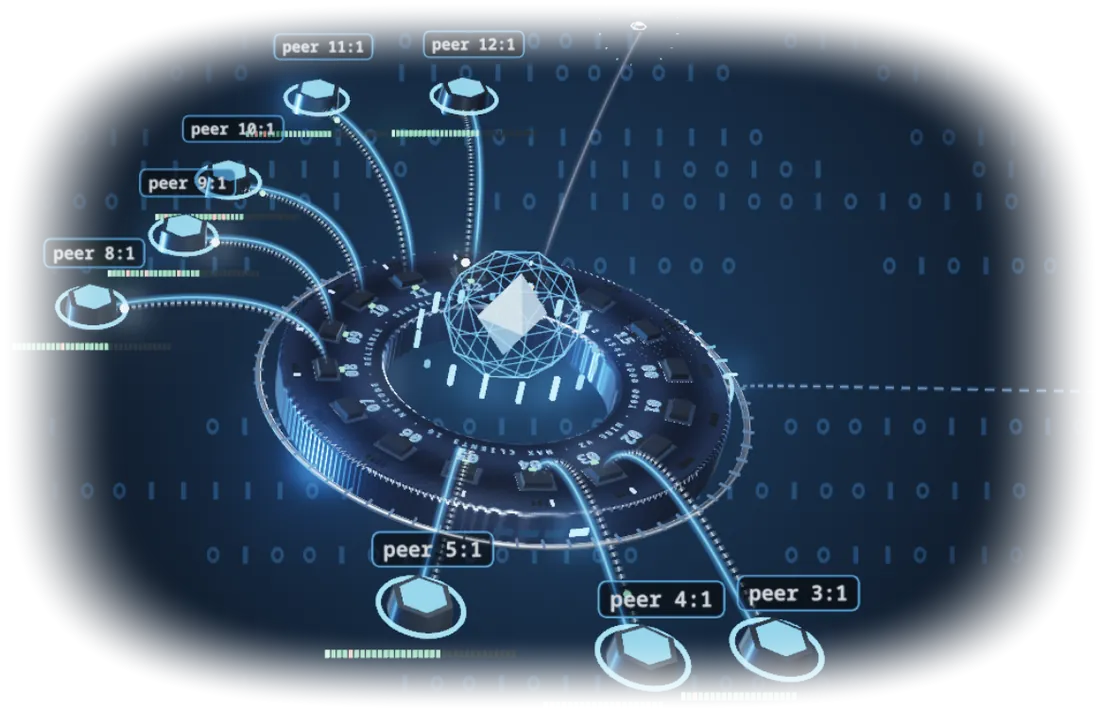
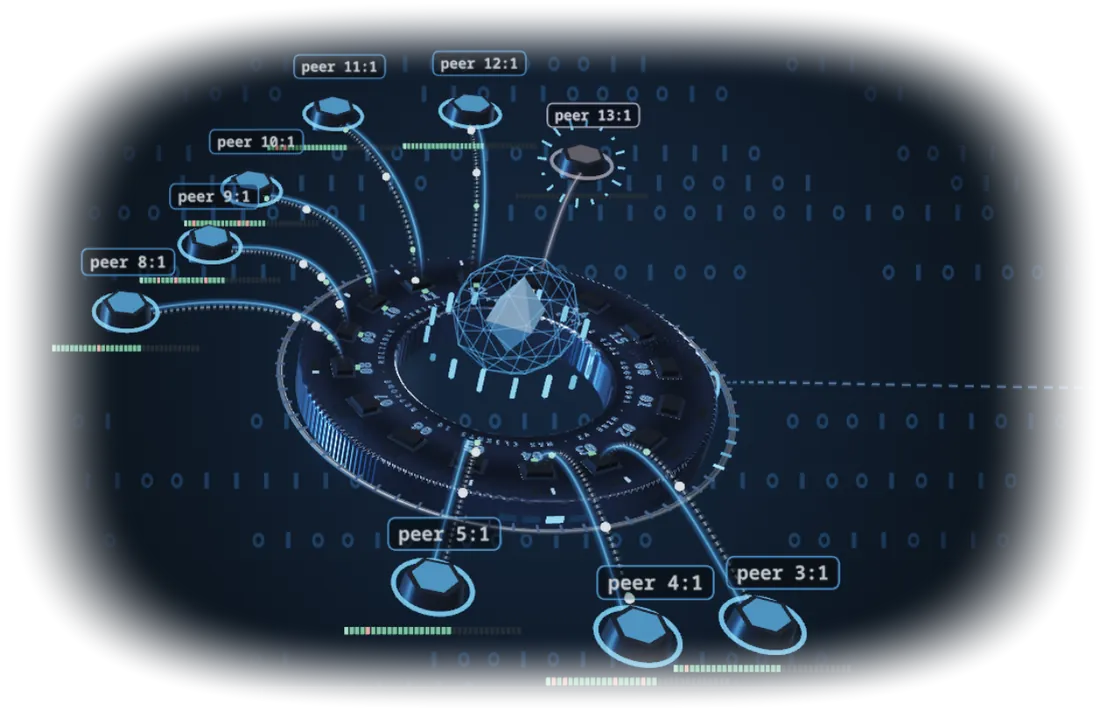
UPDATE: Take the pointer's light out of the hero, and calm its glare
The pointer lit the peers and the drum as it moved, which made hot white highlights. It now carries
only the simulator's ring. Emission, clearcoat, reflections and bloom are all turned down, so the
drum reads as brushed metal and the packets glow without flaring; the still is recaptured to
match.

diff --git a/static/js/dream-net-hero.js b/static/js/dream-net-hero.js
@@ -322,11 +322,11 @@ function environment(renderer, accent) {
   const room = new THREE.Mesh(new THREE.BoxGeometry(26, 16, 26), new THREE.MeshBasicMaterial({ color: new THREE.Color(0.025, 0.035, 0.05), side: THREE.BackSide }));
   scene.add(room);
   disposables.push(room.geometry, room.material);
-  add(new THREE.PlaneGeometry(14, 6), new THREE.Color(0.85, 0.92, 1.0).multiplyScalar(3.2), [-6, 7, 6]);
-  add(new THREE.PlaneGeometry(9, 5), new THREE.Color(0.9, 0.95, 1.0).multiplyScalar(1.6), [8, 4, 7]);
-  add(new THREE.PlaneGeometry(14, 0.5), accent.clone().multiplyScalar(6), [7, 2.2, -8]);
-  add(new THREE.PlaneGeometry(14, 0.4), accent.clone().multiplyScalar(4), [-8, 0.5, -7]);
-  add(new THREE.PlaneGeometry(20, 0.3), new THREE.Color(0.55, 0.8, 1.0).multiplyScalar(3), [0, -0.8, -12]);
+  add(new THREE.PlaneGeometry(14, 6), new THREE.Color(0.85, 0.92, 1.0).multiplyScalar(1.8), [-6, 7, 6]);
+  add(new THREE.PlaneGeometry(9, 5), new THREE.Color(0.9, 0.95, 1.0).multiplyScalar(0.9), [8, 4, 7]);
+  add(new THREE.PlaneGeometry(14, 0.5), accent.clone().multiplyScalar(3), [7, 2.2, -8]);
+  add(new THREE.PlaneGeometry(14, 0.4), accent.clone().multiplyScalar(2), [-8, 0.5, -7]);
+  add(new THREE.PlaneGeometry(20, 0.3), new THREE.Color(0.55, 0.8, 1.0).multiplyScalar(1.5), [0, -0.8, -12]);
   add(new THREE.PlaneGeometry(24, 24), new THREE.Color(0.08, 0.12, 0.18).multiplyScalar(0.6), [0, -7.5, 0]);
   const generator = new THREE.PMREMGenerator(renderer);
   const target = generator.fromScene(scene, 0.03);
@@ -366,7 +366,7 @@ const SKY_FRAGMENT = /* glsl */ `
     vec2 d = (vUv - uCenter) * vec2(aspect, 1.0);
     float r = length(d);
     float radius = max(uRadius, 1e-3);
-    color += uAccent * exp(-r * r / (radius * radius)) * 0.075;
+    color += uAccent * exp(-r * r / (radius * radius)) * 0.05;
 
     // Cells of 17 CSS pixels, whatever the hero's size.
     vec2 p = vUv * uResolution / 17.0;
@@ -491,7 +491,7 @@ const BRIGHT_FRAGMENT = /* glsl */ `
   void main() {
     vec3 c = scrub(texture2D(tInput, vUv).rgb);
     float luma = dot(c, vec3(0.2126, 0.7152, 0.0722));
-    gl_FragColor = vec4(c * smoothstep(uThreshold, uThreshold + 0.8, luma), 1.0);
+    gl_FragColor = vec4(c * smoothstep(uThreshold, uThreshold + 1.2, luma), 1.0);
   }
 `;
 
@@ -524,8 +524,8 @@ const COMPOSITE_FRAGMENT = /* glsl */ `
   ${SCRUB}
   void main() {
     vec3 color = scrub(texture2D(tScene, vUv).rgb);
-    color += scrub(texture2D(tBloomNear, vUv).rgb) * 0.75 + scrub(texture2D(tBloomFar, vUv).rgb) * 0.6;
-    color = aces(color * 0.95);
+    color += scrub(texture2D(tBloomNear, vUv).rgb) * 0.4 + scrub(texture2D(tBloomFar, vUv).rgb) * 0.3;
+    color = aces(color * 0.8);
     color = pow(color, vec3(1.0 / 2.2));
     color += dither(gl_FragCoord.xy) / 255.0;
     gl_FragColor = vec4(color, 1.0);
@@ -710,16 +710,16 @@ function mount(root) {
     metalness: 1,
     color: new THREE.Color(0.62, 0.68, 0.78),
     emissiveMap: maps.glow,
-    emissive: accent.clone().multiplyScalar(0.55),
+    emissive: accent.clone().multiplyScalar(0.3),
     emissiveIntensity: 1,
-    clearcoat: 0.35,
-    clearcoatRoughness: 0.25,
-    envMapIntensity: 1.15,
+    clearcoat: 0.12,
+    clearcoatRoughness: 0.4,
+    envMapIntensity: 0.75,
   }));
   rig.add(drum);
 
   // The bezel: Seq16's dial, 64 ticks, one lit for the current sequence number.
-  const bezelMaterial = new THREE.MeshPhysicalMaterial({ color: new THREE.Color(0.55, 0.6, 0.68), metalness: 1, roughness: 0.22, clearcoat: 0.6, envMapIntensity: 1.3, emissive: accent.clone(), emissiveIntensity: 0 });
+  const bezelMaterial = new THREE.MeshPhysicalMaterial({ color: new THREE.Color(0.5, 0.55, 0.62), metalness: 1, roughness: 0.34, clearcoat: 0.15, envMapIntensity: 0.75, emissive: accent.clone(), emissiveIntensity: 0 });
   const bezel = new THREE.Mesh(new THREE.TorusGeometry(DRUM.outer + 0.07, 0.009, 10, small ? 128 : 220), bezelMaterial);
   bezel.rotation.x = Math.PI / 2;
   rig.add(bezel);
@@ -740,11 +740,11 @@ function mount(root) {
     vector.set(Math.cos(angle) * (DRUM.outer + 0.07), 0.012, Math.sin(angle) * (DRUM.outer + 0.07));
     matrix.compose(vector, quaternion, unit);
     ticks.setMatrixAt(i, matrix);
-    ticks.setColorAt(i, hot(infoColor, 0.35));
+    ticks.setColorAt(i, hot(infoColor, 0.25));
   }
 
   // Sockets, their lamps and their generation notches.
-  const socketMesh = new THREE.InstancedMesh(new THREE.BoxGeometry(0.075, 0.03, 0.05), new THREE.MeshPhysicalMaterial({ color: new THREE.Color(0.04, 0.05, 0.07), metalness: 0.4, roughness: 0.45, clearcoat: 0.8, clearcoatRoughness: 0.15 }), SLOTS);
+  const socketMesh = new THREE.InstancedMesh(new THREE.BoxGeometry(0.075, 0.03, 0.05), new THREE.MeshPhysicalMaterial({ color: new THREE.Color(0.04, 0.05, 0.07), metalness: 0.4, roughness: 0.55, clearcoat: 0.2, clearcoatRoughness: 0.35 }), SLOTS);
   const lampMesh = new THREE.InstancedMesh(new THREE.BoxGeometry(0.018, 0.008, 0.014), new THREE.MeshBasicMaterial({ color: 0xffffff }), SLOTS);
   const notchMesh = new THREE.InstancedMesh(new THREE.BoxGeometry(0.008, 0.006, 0.02), new THREE.MeshBasicMaterial({ color: 0xffffff }), SLOTS * 4);
   for (let slot = 0; slot < SLOTS; slot++) {
@@ -782,12 +782,12 @@ function mount(root) {
 
   // The listening socket, on the rim, facing the edge of the page.
   const port = new THREE.Group();
-  const portBody = new THREE.Mesh(new THREE.CylinderGeometry(0.036, 0.04, 0.05, 32, 1, true), new THREE.MeshPhysicalMaterial({ color: new THREE.Color(0.5, 0.56, 0.64), metalness: 1, roughness: 0.25, side: THREE.DoubleSide, envMapIntensity: 1.2 }));
+  const portBody = new THREE.Mesh(new THREE.CylinderGeometry(0.036, 0.04, 0.05, 32, 1, true), new THREE.MeshPhysicalMaterial({ color: new THREE.Color(0.5, 0.56, 0.64), metalness: 1, roughness: 0.35, side: THREE.DoubleSide, envMapIntensity: 0.75 }));
   portBody.rotation.z = -Math.PI / 2;
   const portMouth = new THREE.Mesh(new THREE.CircleGeometry(0.03, 32), new THREE.MeshBasicMaterial({ color: new THREE.Color(0.01, 0.015, 0.02) }));
   portMouth.rotation.y = Math.PI / 2;
   portMouth.position.x = 0.012;
-  const portRingMaterial = new THREE.MeshBasicMaterial({ color: hot(accent, 1) });
+  const portRingMaterial = new THREE.MeshBasicMaterial({ color: hot(accent, 0.6) });
   const portRing = new THREE.Mesh(new THREE.TorusGeometry(0.043, 0.005, 8, 48), portRingMaterial);
   portRing.rotation.y = Math.PI / 2;
   portRing.position.x = 0.026;
@@ -797,12 +797,12 @@ function mount(root) {
 
   // The key, caged, and the schema's fingerprint around it.
   const coreMaterial = new THREE.MeshPhysicalMaterial({
-    color: new THREE.Color(0.75, 0.88, 1.0), metalness: 0.15, roughness: 0.06, clearcoat: 1, clearcoatRoughness: 0.04,
-    iridescence: 1, iridescenceIOR: 1.7, iridescenceThicknessRange: [180, 620], emissive: accent.clone(), emissiveIntensity: 0.35, envMapIntensity: 1.7,
+    color: new THREE.Color(0.62, 0.74, 0.88), metalness: 0.15, roughness: 0.18, clearcoat: 0.4, clearcoatRoughness: 0.2,
+    iridescence: 0.5, iridescenceIOR: 1.5, iridescenceThicknessRange: [180, 620], emissive: accent.clone(), emissiveIntensity: 0.16, envMapIntensity: 0.9,
   });
   const core = new THREE.Mesh(new THREE.OctahedronGeometry(0.1, 0), coreMaterial);
   core.scale.set(1, 1.45, 1);
-  const cageMaterial = new THREE.LineBasicMaterial({ color: hot(accent, 1.4), transparent: true, opacity: 0.55, blending: THREE.AdditiveBlending, depthWrite: false });
+  const cageMaterial = new THREE.LineBasicMaterial({ color: hot(accent, 0.8), transparent: true, opacity: 0.4, blending: THREE.AdditiveBlending, depthWrite: false });
   const cage = new THREE.LineSegments(new THREE.EdgesGeometry(new THREE.IcosahedronGeometry(0.19, 1)), cageMaterial);
   const coreGroup = new THREE.Group();
   coreGroup.add(core, cage);
@@ -822,7 +822,7 @@ function mount(root) {
       vector.set(Math.cos(angle) * 0.25, 0.025 * height, Math.sin(angle) * 0.25);
       matrix.compose(vector, quaternion, new THREE.Vector3(1, height, 1));
       fingerprintMesh.setMatrixAt(i, matrix);
-      fingerprintMesh.setColorAt(i, hot(accent, 0.8 + serverPrint[i] / 255 * 2.4));
+      fingerprintMesh.setColorAt(i, hot(accent, 0.45 + serverPrint[i] / 255 * 1.15));
     }
     fingerprintMesh.instanceMatrix.needsUpdate = true;
     if (fingerprintMesh.instanceColor) fingerprintMesh.instanceColor.needsUpdate = true;
@@ -848,13 +848,13 @@ function mount(root) {
     rig.add(mesh);
     return mesh;
   };
-  const lens = makeLens(hot(warnColor, 1.1));
+  const lens = makeLens(hot(warnColor, 0.85));
 
   // Peers: a hexagonal node with a state ring, its name plate, and its links.
   const nodeGeometry = new THREE.CylinderGeometry(0.075, 0.082, 0.07, 6, 1);
   const nodeTopGeometry = new THREE.CylinderGeometry(0.058, 0.058, 0.006, 6, 1);
   const nodeRingGeometry = new THREE.TorusGeometry(0.1, 0.006, 8, 48);
-  const bodyMaterial = new THREE.MeshPhysicalMaterial({ color: new THREE.Color(0.2, 0.24, 0.3), metalness: 0.9, roughness: 0.3, clearcoat: 0.7, clearcoatRoughness: 0.12, envMapIntensity: 1.2 });
+  const bodyMaterial = new THREE.MeshPhysicalMaterial({ color: new THREE.Color(0.18, 0.21, 0.26), metalness: 0.85, roughness: 0.42, clearcoat: 0.15, clearcoatRoughness: 0.4, envMapIntensity: 0.7 });
   function makeNode() {
     const group = new THREE.Group();
     const body = new THREE.Mesh(nodeGeometry, bodyMaterial);
@@ -991,15 +991,15 @@ function mount(root) {
     }
   }
 
-  // Lights: a cool key, a rim, the accent from behind, and the pointer's lamp.
-  const key = new THREE.DirectionalLight(new THREE.Color(0.86, 0.92, 1.0), 1.5);
+  // Lights: a cool key, a rim and the accent from behind. The pointer carries no light: it is the
+  // simulator's ring, nothing more.
+  const key = new THREE.DirectionalLight(new THREE.Color(0.86, 0.92, 1.0), 1.05);
   key.position.set(-4, 6, 6);
-  const rim = new THREE.DirectionalLight(new THREE.Color(0.7, 0.85, 1.0), 2.2);
+  const rim = new THREE.DirectionalLight(new THREE.Color(0.7, 0.85, 1.0), 1.4);
   rim.position.set(5, 3, -6);
-  const back = new THREE.DirectionalLight(accent, 1.6);
+  const back = new THREE.DirectionalLight(accent, 1.1);
   back.position.set(-6, -1, -4);
-  const lamp = new THREE.PointLight(new THREE.Color(1.0, 0.95, 0.85), 0, 0, 2);
-  scene.add(key, rim, back, lamp);
+  scene.add(key, rim, back);
 
   // Post-processing.
   const postScene = new THREE.Scene();
@@ -1007,7 +1007,7 @@ function mount(root) {
   const postQuad = new THREE.Mesh(quad);
   postQuad.frustumCulled = false;
   postScene.add(postQuad);
-  const brightMaterial = fullscreenMaterial(BRIGHT_FRAGMENT, { tInput: { value: sceneTarget.texture }, uThreshold: { value: 0.95 } });
+  const brightMaterial = fullscreenMaterial(BRIGHT_FRAGMENT, { tInput: { value: sceneTarget.texture }, uThreshold: { value: 1.3 } });
   const blurMaterial = fullscreenMaterial(BLUR_FRAGMENT, { tInput: { value: null }, uDirection: { value: new THREE.Vector2() } });
   const copyMaterial = fullscreenMaterial(/* glsl */ `
     uniform sampler2D tInput;
@@ -1207,13 +1207,13 @@ function mount(root) {
 
   function packetColor(packet, target) {
     switch (packet.kind) {
-      case 'event': return target.copy(accent).multiplyScalar(3.4);
-      case 'resend': return target.copy(warnColor).multiplyScalar(3.2);
-      case 'hello': return target.setRGB(0.92, 0.88, 1.0).multiplyScalar(3.0);
-      case 'ack': return target.copy(okColor).multiplyScalar(2.2);
-      case 'chat': return target.copy(packet.owner.color || accent).multiplyScalar(3.8);
-      case 'idle': return target.copy(infoColor).multiplyScalar(1.5);
-      default: return target.setRGB(0.8, 0.92, 1.0).multiplyScalar(2.0);
+      case 'event': return target.copy(accent).multiplyScalar(1.7);
+      case 'resend': return target.copy(warnColor).multiplyScalar(1.6);
+      case 'hello': return target.setRGB(0.92, 0.88, 1.0).multiplyScalar(1.4);
+      case 'ack': return target.copy(okColor).multiplyScalar(1.2);
+      case 'chat': return target.copy(packet.owner.color || accent).multiplyScalar(2.0);
+      case 'idle': return target.copy(infoColor).multiplyScalar(0.9);
+      default: return target.setRGB(0.8, 0.92, 1.0).multiplyScalar(1.1);
     }
   }
 
@@ -1249,7 +1249,7 @@ function mount(root) {
   }
 
   function lost(packet, position) {
-    burst(position, packet.kind === 'resend' ? hot(warnColor, 3) : hot(dangerColor, 2.4), 7, 0.25 * scale);
+    burst(position, packet.kind === 'resend' ? hot(warnColor, 1.6) : hot(dangerColor, 1.4), 7, 0.25 * scale);
     if (packet.dir > 0 && packet.owner.link !== LISTEN_LINK) acknowledge(packet.owner, false);
     // Reliable events are sent again until acknowledged; unreliable ones are gone.
     if (packet.reliable && packet.kind !== 'hello') resends.push({ owner: packet.owner, dir: packet.dir, at: time + 0.35, kind: packet.kind === 'chat' ? 'chat' : 'resend' });
@@ -1485,7 +1485,6 @@ function mount(root) {
   const pointer = new THREE.Vector2(0, 0);
   let pointerActive = false;
   let lastPointer = 0;
-  let presence = 0;
   const lensLocal = new THREE.Vector3(0, TOP + 0.05, 0);
   let lensStrength = 0;
   const lean = new THREE.Vector2();
@@ -1493,7 +1492,6 @@ function mount(root) {
   const planeNormal = new THREE.Vector3();
   const planePoint = new THREE.Vector3();
   const hit = new THREE.Vector3();
-  const lampPosition = new THREE.Vector3();
   const color = new THREE.Color();
   const scratch = new THREE.Color();
   const packetPosition = new THREE.Vector3();
@@ -1588,7 +1586,7 @@ function mount(root) {
           peer.state = peer.mismatch ? 'mismatch' : 'connected';
           peer.since = time;
           laneAt(peer.link, 0, 1, packetPosition);
-          burst(packetPosition, peer.mismatch ? hot(dangerColor, 3) : hot(accent, 3.2), 16, 0.35 * scale);
+          burst(packetPosition, peer.mismatch ? hot(dangerColor, 1.6) : hot(accent, 1.7), 16, 0.35 * scale);
           peer.nextState = time + 0.2;
         }
       } else if (peer.state === 'mismatch') {
@@ -1644,7 +1642,7 @@ function mount(root) {
           remote.state = remote.mismatch ? 'mismatch' : 'connected';
           remote.since = wall();
           laneAt(remote.link, 0, 1, packetPosition);
-          burst(packetPosition, remote.mismatch ? hot(dangerColor, 3) : hot(remote.color, 3.4), 22, 0.4 * scale);
+          burst(packetPosition, remote.mismatch ? hot(dangerColor, 1.6) : hot(remote.color, 1.9), 22, 0.4 * scale);
           coreFlare = Math.max(coreFlare, 0.7);
         }
       } else if (remote.state === 'mismatch' && age > MISMATCH_LINGER) {
@@ -1700,7 +1698,7 @@ function mount(root) {
     cameraRight.setFromMatrixColumn(camera.matrixWorld, 0);
     cameraUp.setFromMatrixColumn(camera.matrixWorld, 1);
 
-    // The pointer's lamp and the simulator's ring.
+    // The simulator's ring.
     // The ring only stands on the network: beyond the peers the pointer is just a pointer.
     const wantLens = !idle && pointerOnDrum(pointer, hit) && Math.hypot(hit.x, hit.z) < 1.75;
     if (wantLens) {
@@ -1712,25 +1710,20 @@ function mount(root) {
     lens.material.uniforms.uStrength.value = lensStrength;
     lens.material.uniforms.uTime.value = time;
     lens.visible = lensStrength > 0.01;
-    presence += ((idle ? 0.3 : 1) - presence) * (reduceMotion ? 1 : Math.min(1, dt * 3));
-    if (idle) lampPosition.set(Math.sin(time * 0.37) * 1.2, TOP + 0.9, Math.cos(time * 0.29) * 1.1 + 0.6).applyMatrix4(rig.matrixWorld);
-    else lens.getWorldPosition(lampPosition).addScaledVector(planeNormal.set(0, 1, 0).applyQuaternion(rig.quaternion), 0.7 * scale);
-    lamp.position.lerp(lampPosition, reduceMotion ? 1 : Math.min(1, dt * 6));
-    lamp.intensity = presence * 14 * scale * scale;
 
     simulate(dt);
 
     // The drum's details.
     const phase = Math.floor((time * 1.4) % 4);
-    for (let i = 0; i < 4; i++) frameMesh.setColorAt(i, i === phase ? hot(accent, 3) : hot(accent, 0.12));
+    for (let i = 0; i < 4; i++) frameMesh.setColorAt(i, i === phase ? hot(accent, 1.6) : hot(accent, 0.1));
     frameMesh.instanceColor.needsUpdate = true;
     dial.rotation.y = -time * 0.05;
     seqWrapGlow = Math.max(0, seqWrapGlow - dt * 0.8);
-    bezelMaterial.emissiveIntensity = seqWrapGlow * 1.6;
+    bezelMaterial.emissiveIntensity = seqWrapGlow * 0.9;
     const lit = seq % tickCount;
     for (let i = 0; i < tickCount; i++) {
       const distance = (lit - i + tickCount) % tickCount;
-      ticks.setColorAt(i, distance === 0 ? hot(accent, 4) : distance < 5 ? hot(accent, 1.4 - distance * 0.25) : hot(infoColor, 0.3 + seqWrapGlow * 1.5));
+      ticks.setColorAt(i, distance === 0 ? hot(accent, 2) : distance < 5 ? hot(accent, 0.9 - distance * 0.15) : hot(infoColor, 0.22 + seqWrapGlow * 0.9));
     }
     ticks.instanceColor.needsUpdate = true;
     for (const slot of slots) {
@@ -1738,13 +1731,13 @@ function mount(root) {
       slot.lamp = Math.max(0, slot.lamp - dt * 2.2);
       let base = null;
       if (peer) {
-        if (peer.state === 'connected') base = hot(okColor, 1.2 + slot.lamp * 1.2);
-        else if (peer.state === 'mismatch') base = hot(dangerColor, 1.6);
-        else if (peer.state === 'leaving') base = hot(dangerColor, 0.5 * (1 - (time - peer.since) / 1.3));
-        else base = hot(warnColor, 1.4 + slot.lamp);
+        if (peer.state === 'connected') base = hot(okColor, 0.8 + slot.lamp * 0.6);
+        else if (peer.state === 'mismatch') base = hot(dangerColor, 1.0);
+        else if (peer.state === 'leaving') base = hot(dangerColor, 0.35 * (1 - (time - peer.since) / 1.3));
+        else base = hot(warnColor, 0.9 + slot.lamp * 0.5);
       }
       lampMesh.setColorAt(slot.index, base || scratch.setRGB(0.02, 0.025, 0.03));
-      for (let j = 0; j < 4; j++) notchMesh.setColorAt(slot.index * 4 + j, j < Math.min(4, slot.gen) ? hot(infoColor, j === Math.min(4, slot.gen) - 1 && peer ? 1.8 : 0.5) : scratch.setRGB(0.015, 0.02, 0.025));
+      for (let j = 0; j < 4; j++) notchMesh.setColorAt(slot.index * 4 + j, j < Math.min(4, slot.gen) ? hot(infoColor, j === Math.min(4, slot.gen) - 1 && peer ? 1.0 : 0.35) : scratch.setRGB(0.015, 0.02, 0.025));
     }
     lampMesh.instanceColor.needsUpdate = true;
     notchMesh.instanceColor.needsUpdate = true;
@@ -1752,12 +1745,12 @@ function mount(root) {
     coreGroup.rotation.y = time * 0.35;
     coreGroup.position.y = TOP + 0.2 + Math.sin(time * 1.1) * 0.012;
     cage.rotation.set(time * 0.13, -time * 0.5, 0);
-    coreMaterial.emissiveIntensity = 0.35 + coreFlare * 2.2;
-    cageMaterial.opacity = 0.45 + coreFlare * 0.5;
+    coreMaterial.emissiveIntensity = 0.16 + coreFlare * 1.1;
+    cageMaterial.opacity = 0.35 + coreFlare * 0.4;
     fingerprintRing.rotation.y = -time * 0.18;
     const listening = remotes.some((remote) => remote.state !== 'empty');
     const breath = 0.5 + 0.5 * Math.sin(time * TAU * 0.35);
-    portRingMaterial.color.copy(listening ? okColor : accent).multiplyScalar(listening ? 2.4 : 0.6 + breath * 1.6);
+    portRingMaterial.color.copy(listening ? okColor : accent).multiplyScalar(listening ? 1.4 : 0.35 + breath * 0.9);
 
     // Nodes, links and name plates.
     let bitCursor = 0;
@@ -1793,31 +1786,31 @@ function mount(root) {
       let lane1;
       const tint = isRemote ? entry.color : accent;
       if (entry.state === 'connected') {
-        ringColor = hot(tint, 1.6 + (entry.ackPulse || 0) * 2);
-        lane0 = hot(tint, 1.05);
-        lane1 = scratch.setRGB(0.7, 0.86, 1.0).multiplyScalar(0.5).clone();
+        ringColor = hot(tint, 0.9 + (entry.ackPulse || 0) * 1.0);
+        lane0 = hot(tint, 0.62);
+        lane1 = scratch.setRGB(0.7, 0.86, 1.0).multiplyScalar(0.3).clone();
       } else if (entry.state === 'mismatch') {
-        ringColor = hot(dangerColor, 2.2);
-        lane0 = hot(dangerColor, 1.1);
+        ringColor = hot(dangerColor, 1.2);
+        lane0 = hot(dangerColor, 0.65);
         lane1 = null;
       } else if (entry.state === 'leaving') {
-        ringColor = hot(dangerColor, appear);
-        lane0 = hot(infoColor, 0.5 * appear);
-        lane1 = hot(infoColor, 0.3 * appear);
+        ringColor = hot(dangerColor, 0.6 * appear);
+        lane0 = hot(infoColor, 0.3 * appear);
+        lane1 = hot(infoColor, 0.18 * appear);
       } else {
         const pulse = 0.6 + 0.4 * Math.sin(time * TAU * 0.8);
-        ringColor = scratch.setRGB(0.9, 0.86, 1.0).multiplyScalar(1.6 * pulse).clone();
-        lane0 = scratch.setRGB(0.85, 0.82, 1.0).multiplyScalar(0.7 * appear).clone();
+        ringColor = scratch.setRGB(0.9, 0.86, 1.0).multiplyScalar(0.95 * pulse).clone();
+        lane0 = scratch.setRGB(0.85, 0.82, 1.0).multiplyScalar(0.3 * appear).clone();
         lane1 = null;
       }
       node.ringMaterial.color.copy(ringColor);
-      node.screenMaterial.color.copy(ringColor).multiplyScalar(0.8);
+      node.screenMaterial.color.copy(ringColor).multiplyScalar(0.55);
       const [stroke, fill] = labelColor(entry.state, isRemote ? entry : null);
       const name = isRemote
         ? `peer ${SLOTS + entry.index}:${entry.gen}${entry.rtt != null && entry.state === 'connected' ? ` · ${entry.rtt < 10 ? entry.rtt.toFixed(1) : Math.round(entry.rtt)} ms` : ''}`
         : `peer ${entry.slot ? entry.slot.index : 0}:${entry.gen}`;
       node.name.draw(entry.state === 'mismatch' ? 'SchemaMismatch' : name, stroke, fill);
-      node.label.material.opacity = appear * (small ? 0.85 : 0.95);
+      node.label.material.opacity = appear * 0.82;
       node.label.scale.set(0.6, 0.12, 1);
 
       // The link: from the socket to the node, or for another tab, from the listening socket.
@@ -1837,7 +1830,7 @@ function mount(root) {
         vector.copy(nodeWorld).addScaledVector(cameraRight, (i - (ACK_BITS - 1) / 2) * cell * 1.35).addScaledVector(cameraUp, -0.115 * scale);
         matrix.compose(vector, camera.quaternion, dummyScale.set(cell, cell * 1.8, 1).multiplyScalar(appear));
         bitsMesh.setMatrixAt(bitCursor, matrix);
-        bitsMesh.setColorAt(bitCursor, value < 0 ? scratch.setRGB(0.03, 0.04, 0.05) : value > 0 ? hot(okColor, i === 0 ? 2.4 : 1.1) : hot(dangerColor, 1.4));
+        bitsMesh.setColorAt(bitCursor, value < 0 ? scratch.setRGB(0.03, 0.04, 0.05) : value > 0 ? hot(okColor, i === 0 ? 1.3 : 0.7) : hot(dangerColor, 0.9));
         bitCursor += 1;
       }
       const showPrint = entry.state === 'arriving' || entry.state === 'handshake' || entry.state === 'mismatch';
@@ -1856,7 +1849,7 @@ function mount(root) {
         matrix.compose(vector, quaternion, dummyScale.set(0.008 * scale, length, 1).multiplyScalar(appear));
         printMesh.setMatrixAt(printCursor, matrix);
         const same = print[i] === serverPrint[i];
-        printMesh.setColorAt(printCursor, entry.state === 'mismatch' || !same ? hot(dangerColor, 1.8) : hot(isRemote ? entry.color : accent, 2.2));
+        printMesh.setColorAt(printCursor, entry.state === 'mismatch' || !same ? hot(dangerColor, 1.1) : hot(isRemote ? entry.color : accent, 1.3));
         printCursor += 1;
       }
     };
@@ -1891,7 +1884,7 @@ function mount(root) {
     zPlane.constant = 0;
     p3.copy(edgeLocal);
     sampleLink(LISTEN_LINK, local.copy(port.position).add(p0.set(0.03, 0, 0)), p3.clone(), 0.02, -0.04);
-    const listenGlow = listening ? 0.9 : 0.25 + breath * 0.25;
+    const listenGlow = listening ? 0.55 : 0.18 + breath * 0.16;
     writeRibbon(LISTEN_LINK, null, hot(listening ? okColor : infoColor, listenGlow), 0.8);
     linkGeometry.attributes.position.needsUpdate = true;
     linkGeometry.attributes.aColor.needsUpdate = true;
